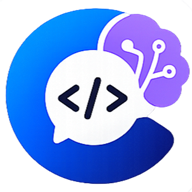
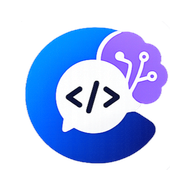
feat: 채팅 키보드 대응, 말풍선 개선, 대전 답변 하이라이트, 닉네임 변경 알림, 앱아이콘 개선
- ChatWindow: visualViewport API로 소프트 키보드 감지 → 채팅창 키보드 위 고정
- ChatWindow: 바깥 클릭 시 채팅창 닫기 (backdrop)
- ChatWindow: 내 메시지 말풍선 파란색(bg-blue-600)으로 구분
- Battle: 선택한 답변 파란색 하이라이트 (border-blue-500 bg-blue-500/20)
- Prisma: NotificationType에 NICKNAME_CHANGED 추가 + 마이그레이션
- 닉네임 변경 시 친구들에게 NICKNAME_CHANGED 알림 전송 (모두읽기 제외)
- 아이콘: 흰색 배경 + 로고 78% 크기

diff --git a/src/components/ChatWindow.tsx b/src/components/ChatWindow.tsx
@@ -1,6 +1,6 @@
 'use client';
 
-import { useState, useEffect, useRef } from 'react';
+import { useState, useEffect, useRef, useCallback } from 'react';
 import { supabaseBrowser } from '@/lib/supabase-browser';
 import { ChatMessage } from '@/lib/chat-store';
 
@@ -19,9 +19,31 @@ export default function ChatWindow({ myId, friend, isOnline, onClose }: Props) {
   const [input, setInput] = useState('');
   const [channelReady, setChannelReady] = useState(false);
   const [friendOffline, setFriendOffline] = useState(!isOnline);
+  const [keyboardOffset, setKeyboardOffset] = useState(0);
+  const [vvHeight, setVvHeight] = useState<number | null>(null);
   const channelRef = useRef<ReturnType<typeof supabaseBrowser.channel> | null>(null);
   const bottomRef = useRef<HTMLDivElement>(null);
   const inputRef = useRef<HTMLInputElement>(null);
+
+  // visualViewport로 소프트 키보드 감지 (Samsung Browser 포함)
+  const handleViewport = useCallback(() => {
+    const vv = window.visualViewport;
+    if (!vv) return;
+    setVvHeight(vv.height);
+    setKeyboardOffset(Math.max(0, window.innerHeight - vv.height - vv.offsetTop));
+  }, []);
+
+  useEffect(() => {
+    const vv = window.visualViewport;
+    if (!vv) return;
+    handleViewport();
+    vv.addEventListener('resize', handleViewport);
+    vv.addEventListener('scroll', handleViewport);
+    return () => {
+      vv.removeEventListener('resize', handleViewport);
+      vv.removeEventListener('scroll', handleViewport);
+    };
+  }, [handleViewport]);
 
   const channelName = `csora-chat-${[myId, friend.userId].sort().join('-')}`;
 
@@ -109,13 +131,18 @@ export default function ChatWindow({ myId, friend, isOnline, onClose }: Props) {
     }
   }
 
+  const chatBottom = keyboardOffset > 0 ? `${keyboardOffset + 8}px` : 'max(10.5rem, calc(env(safe-area-inset-bottom, 0px) + 10.5rem))';
+  const chatHeight = keyboardOffset > 0
+    ? `min(340px, calc(${vvHeight ?? 0}px - 5rem))`
+    : 'min(340px, calc(100dvh - 12rem))';
+
   return (
+    <>
+    {/* 바깥 클릭 시 닫기 */}
+    <div className="fixed inset-0 z-[48]" onClick={onClose} />
     <div
       className="fixed right-4 z-[49] flex flex-col bg-[#0f0f0f] border border-neutral-800 rounded-xl shadow-2xl w-72 max-w-[calc(100vw-2rem)]"
-      style={{
-        bottom: 'max(10.5rem, calc(env(safe-area-inset-bottom, 0px) + 10.5rem))',
-        height: 'min(340px, calc(100dvh - 12rem))',
-      }}
+      style={{ bottom: chatBottom, height: chatHeight }}
     >
       {/* 헤더 */}
       <div className="flex items-center justify-between px-3 py-2.5 border-b border-neutral-800 flex-shrink-0">
@@ -162,7 +189,7 @@ export default function ChatWindow({ myId, friend, isOnline, onClose }: Props) {
             return (
               <div key={m.id} className={`flex ${isMe ? 'justify-end' : 'justify-start'}`}>
                 <div className={`max-w-[80%] px-2.5 py-1.5 rounded-lg text-xs leading-relaxed break-words ${
-                  isMe ? 'bg-white text-black' : 'bg-neutral-800 text-neutral-200'
+                  isMe ? 'bg-blue-600 text-white' : 'bg-neutral-800 text-neutral-200'
                 }`}>
                   {m.content}
                 </div>
@@ -209,5 +236,6 @@ export default function ChatWindow({ myId, friend, isOnline, onClose }: Props) {
         </div>
       )}
     </div>
+    </>
   );
 }

diff --git a/src/components/NotificationBell.tsx b/src/components/NotificationBell.tsx
@@ -21,11 +21,14 @@ interface NotificationPayload {
   badge?: string;
   reason?: string;
   commentPreview?: string;
+  prevNickname?: string;
+  newNickname?: string;
+  actorId?: string;
 }
 
 interface Notification {
   id: string;
-  type: 'QUESTION_APPROVED' | 'QUESTION_REJECTED' | 'ROLE_CHANGED' | 'INQUIRY_REPLIED' | 'LEVEL_UP' | 'BADGE_EARNED' | 'FRIEND_REQUEST' | 'FRIEND_ACCEPTED' | 'FRIEND_REJECTED' | 'BATTLE_INVITE' | 'BATTLE_REJECTED' | 'BATTLE_QUIT_REQUEST' | 'NICKNAME_FORCED_CHANGED' | 'ACCOUNT_BLINDED' | 'COMMENT_DELETED';
+  type: 'QUESTION_APPROVED' | 'QUESTION_REJECTED' | 'ROLE_CHANGED' | 'INQUIRY_REPLIED' | 'LEVEL_UP' | 'BADGE_EARNED' | 'FRIEND_REQUEST' | 'FRIEND_ACCEPTED' | 'FRIEND_REJECTED' | 'BATTLE_INVITE' | 'BATTLE_REJECTED' | 'BATTLE_QUIT_REQUEST' | 'NICKNAME_FORCED_CHANGED' | 'NICKNAME_CHANGED' | 'ACCOUNT_BLINDED' | 'COMMENT_DELETED';
   payload: NotificationPayload;
   actionUrl: string | null;
   isRead: boolean;
@@ -52,6 +55,7 @@ function getNotificationMessage(n: Notification): string {
   if (n.type === 'BATTLE_REJECTED') return `${payload.fromNickname ?? '누군가'}님이 대전 신청을 거절했습니다.`;
   if (n.type === 'BATTLE_QUIT_REQUEST') return `${payload.fromNickname ?? '누군가'}님이 대결 중단을 요청했습니다.`;
   if (n.type === 'NICKNAME_FORCED_CHANGED') return `닉네임이 강제 변경되었습니다. 사유: ${payload.reason ?? '부적절한 닉네임 사용'}`;
+  if (n.type === 'NICKNAME_CHANGED') return `${payload.prevNickname ?? ''}님이 닉네임을 변경했습니다: ${payload.prevNickname ?? ''} → ${payload.newNickname ?? ''}`;
   if (n.type === 'ACCOUNT_BLINDED') return `계정이 정지되었습니다. 사유: ${payload.reason ?? '부적절한 닉네임 사용'}`;
   if (n.type === 'COMMENT_DELETED') return `작성하신 댓글이 삭제되었습니다. 사유: ${payload.reason ?? '신고 처리'} · "${payload.commentPreview ?? ''}"`;
   return '새 알림이 있습니다.';

diff --git a/src/app/api/users/nickname/route.ts b/src/app/api/users/nickname/route.ts
@@ -74,5 +74,30 @@ export async function PATCH(req: NextRequest) {
 
   writeLog({ actorId: session.user.id, actorRole: session.user.role ?? 'USER', action: 'NICKNAME_CHANGE', targetType: 'User', targetId: session.user.id, payload: { prev: currentUser?.nickname, next: nickname } });
 
+  // 친구들에게 닉네임 변경 알림 전송 (수동 해제만 가능)
+  const friendships = await prisma.friendship.findMany({
+    where: {
+      OR: [{ requesterId: session.user.id }, { addresseeId: session.user.id }],
+      status: 'ACCEPTED',
+    },
+    select: { requesterId: true, addresseeId: true },
+  });
+  const friendIds = friendships.map((f) =>
+    f.requesterId === session.user.id ? f.addresseeId : f.requesterId
+  );
+  if (friendIds.length > 0) {
+    await prisma.notification.createMany({
+      data: friendIds.map((friendId) => ({
+        userId: friendId,
+        type: 'NICKNAME_CHANGED' as const,
+        payload: {
+          prevNickname: currentUser?.nickname ?? '',
+          newNickname: nickname,
+          actorId: session.user.id,
+        },
+      })),
+    });
+  }
+
   return NextResponse.json({ nickname });
 }

diff --git a/src/app/battle/[id]/page.tsx b/src/app/battle/[id]/page.tsx
@@ -544,7 +544,7 @@ export default function BattleRoomPage({ params }: { params: Promise<{ id: strin
                   let cls = 'w-full text-left rounded-md border px-4 py-2.5 text-sm flex items-start gap-3 transition-colors ';
                   if (myAnswered && !isAutoSubmitted) {
                     cls += i === room.mySelected
-                      ? 'border-neutral-500 bg-neutral-800/50 text-neutral-300 cursor-default'
+                      ? 'border-blue-500 bg-blue-500/20 text-blue-200 cursor-default'
                       : 'border-neutral-800 text-neutral-600 opacity-40 cursor-default';
                   } else {
                     cls += 'border-neutral-800 text-neutral-300 hover:border-neutral-600 hover:text-white cursor-pointer';

diff --git a/src/app/api/notifications/route.ts b/src/app/api/notifications/route.ts
@@ -59,11 +59,16 @@ export async function PATCH(request: NextRequest) {
       data: { isRead: true },
     });
   } else {
-    // 모두 읽음: 미처리 FRIEND_REQUEST(isRead=false)는 제외하고 삭제
+    // 모두 읽음: 수동으로만 해제 가능한 타입은 제외
     await prisma.notification.deleteMany({
       where: {
         userId: session.user.id,
-        NOT: { type: 'FRIEND_REQUEST', isRead: false },
+        NOT: {
+          OR: [
+            { type: 'FRIEND_REQUEST', isRead: false },
+            { type: 'NICKNAME_CHANGED', isRead: false },
+          ],
+        },
       },
     });
   }
